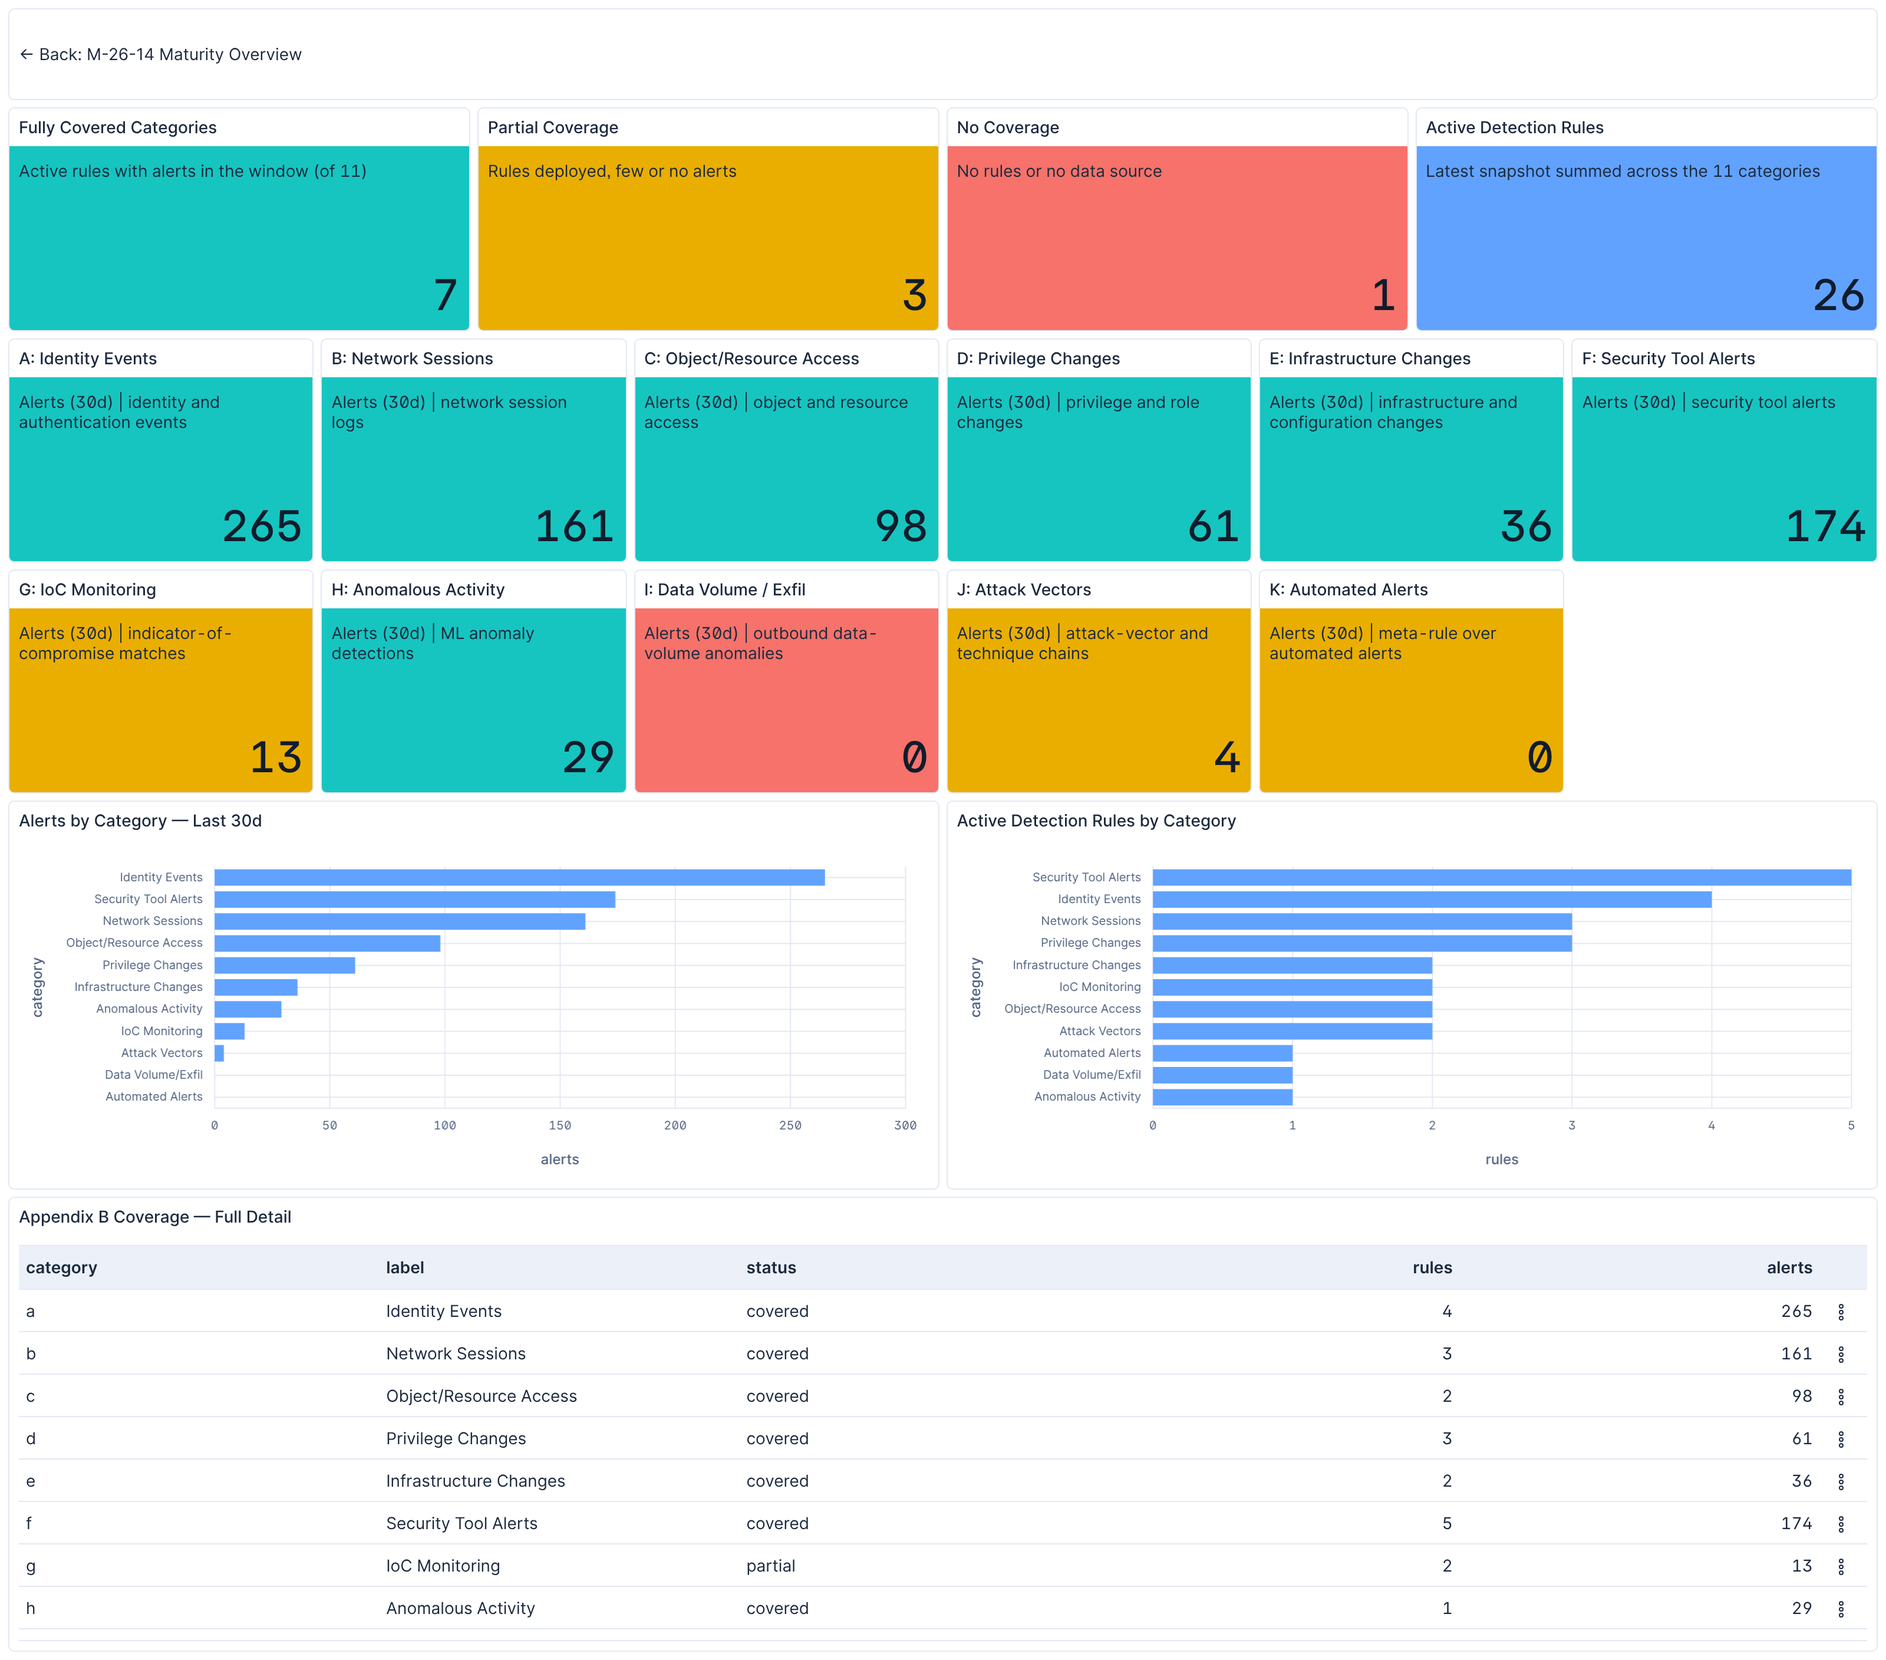
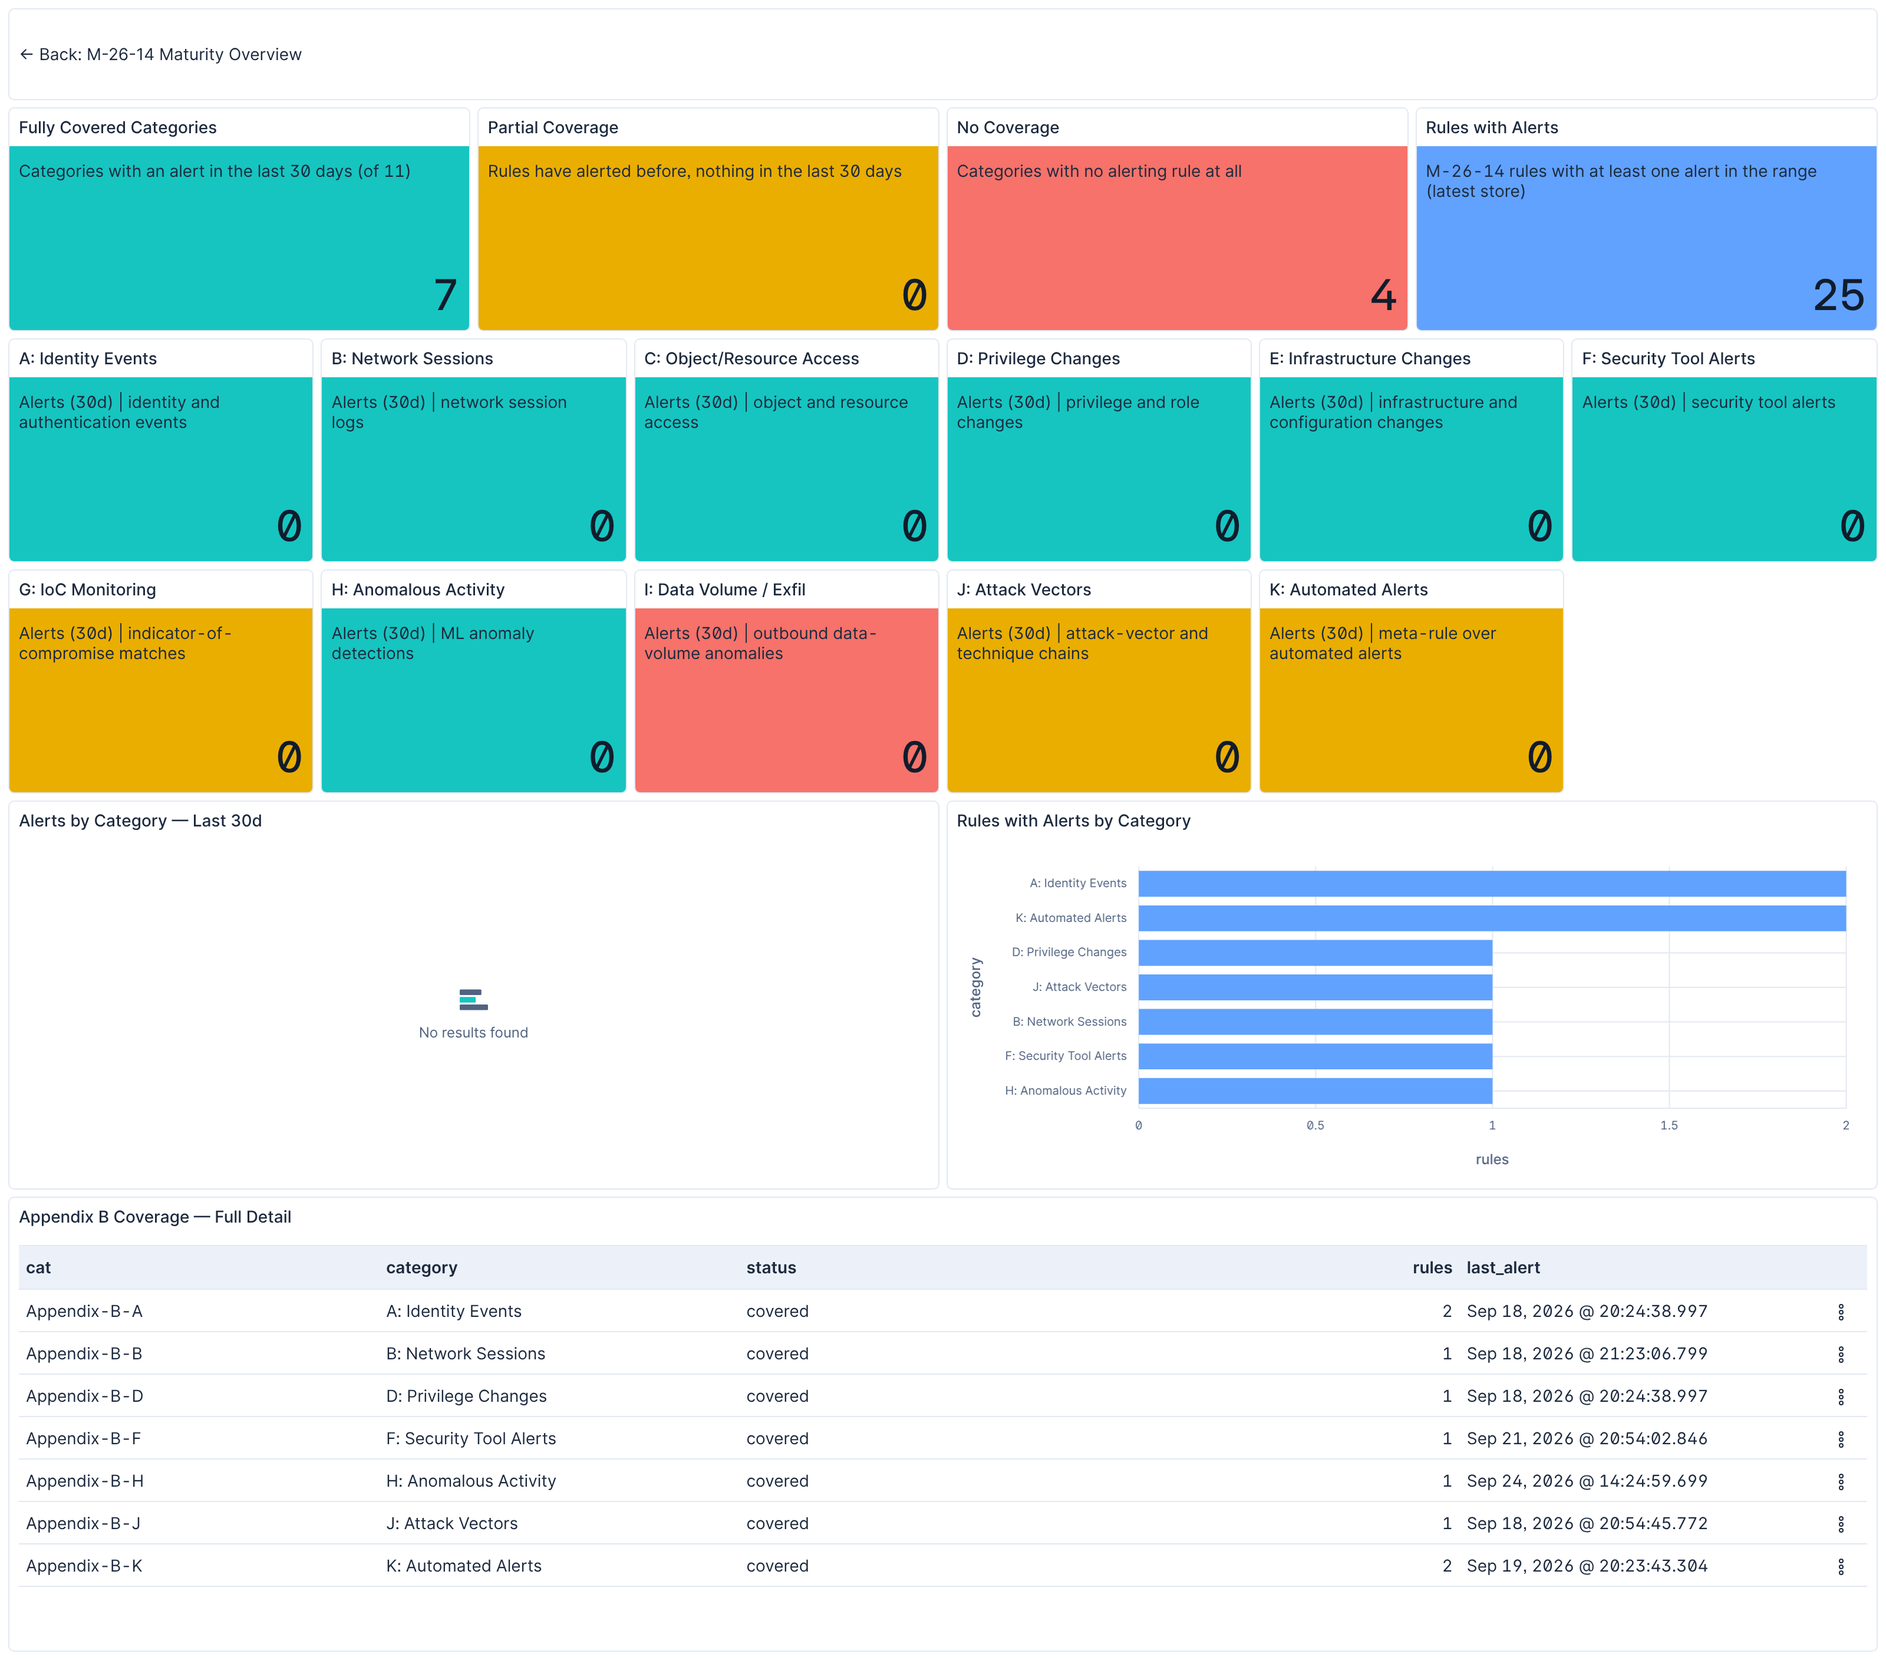
docs(site): HWAM gaps split, Appendix B evidence trail, pre-generated POA&M drafts (R-126..R-128)
Demo guide: section 2 explains the managed/unmanaged software-inventory
split and why the managed table can be empty while the unmanaged tile is
not; section 3 gains "How an auditor validates covered" (three row-click
evidence views on the category tables) and the weekly POA&M draft
workflow; FAQ points at the POA&M Drafts table on the Readiness
Attestation dashboard.

Dashboard guides: Alert Coverage panel 8 and Appendix B full-detail table
rows describe the tag column and the evidence drilldowns.

Enablement framework: Element 3 live links gain the Readiness Attestation
(POA&M drafts) dashboard. Capabilities: ai-audit claims the poam-draft
workflow and poam-drafts store; catalog re-copied from the pack
(regenerated against pubsec after the package upload).

Screenshots re-captured for hwam-gaps, alert-coverage, appendix-b-coverage
and readiness-attestation-dash (plus thumbs).

diff --git a/src/data/capabilities.js b/src/data/capabilities.js
@@ -330,9 +330,10 @@ export const CAPABILITIES = [
       'Three Agent Builder agents answer readiness questions from live data: a POA&M drafting agent that turns open findings (unresolved Cases, retirement gaps, unclassified data, recurring alerts) into formatted Plan of Action and Milestones entries, an After-Action Report agent that reconstructs an incident timeline from logs and Cases, and a threat-investigation agent that produces an audit-ready summary from alerts, entity risk and asset context. Four pack tools give them the same indices the dashboards read.',
       'AI-assisted work carries its own audit trail: every Agent Builder trace span is copied into an audit store with HVA retention on the source stream, rules watch the Kibana audit log for connector changes and knowledge-base edits, and a phrase-match rule flags prompt-injection phrasings in traces.',
     ],
-    contributes: 'The three agents and four tools; the ai-audit transform, index template and normalize pipeline; and the three AI Kibana-audit rules.',
+    contributes: 'The three agents and four tools; the weekly POA&M draft workflow and its drafts store; the ai-audit transform, index template and normalize pipeline; and the three AI Kibana-audit rules.',
     assets: [
       'm_26_14-poam-drafting-agent', 'm_26_14-aar-agent', 'm_26_14-threat-investigation-agent',
+      'm-26-14-poa-m-draft', 'm_26_14-poam-drafts',
       'm_26_14-asset-inventory-search', 'm_26_14-readiness-posture-query', 'm_26_14-classification-audit-query', 'm_26_14-retirement-audit-query',
       'm_26_14-ai-audit', 'm_26_14-ai-audit', 'm_26_14-ai-audit-normalize',
       'm_26_14-ai-assistant-knowledge-base-modified', 'm_26_14-ai-connector-lifecycle', 'm_26_14-ai-guardrail-indicators',

diff --git a/src/data/enablementFramework.js b/src/data/enablementFramework.js
@@ -172,6 +172,7 @@ export const PILLARS = [
         { label: 'Alert Coverage (Appendix B)', url: dash('m_26_14-alert-coverage', 'now-30d') },
         { label: 'Appendix B Coverage Matrix', url: dash('m_26_14-appendix-b-coverage', 'now-30d') },
         { label: 'Agent Builder (POA&M agent)', url: withAnonHint(`${KB}/app/agent_builder/agents`) },
+        { label: 'Readiness Attestation (POA&M drafts)', url: dash('m_26_14-readiness-attestation-dash', 'now-30d') },
       ],
       demo: { title: 'Detection coverage click-through', status: 'planned', url: null },
       docs: [

diff --git a/public/docs/demo-guide.md b/public/docs/demo-guide.md
@@ -53,7 +53,9 @@ Click any row in the Unmanaged Assets table to open a Discover view filtered to 
 
 Knowing devices exist is one requirement. Knowing they're compliant is another. This dashboard answers the posture question: encrypted? MDM-enrolled? Running authorized software?
 
-Four gap tiles line the top row: **No Hardware Inventory (5)**, **No Software Inventory (5)**, **Unknown Encryption Status (5)**, and **No MDM Enrollment (4)** — devices missing a hardware inventory record, a software inventory, a confirmed disk-encryption state, or MDM enrollment. Click any tile to open a Discover view showing exactly which devices — names, OS versions, last-seen times. This is what you hand the ISO instead of a manual audit spreadsheet.
+Five gap tiles line the top row: **No Hardware Inventory (5)**, **Managed, No Software Inventory (0)**, **Unmanaged, No Software Inventory (5)**, **Unknown Encryption Status (5)**, and **No MDM Enrollment (4)** — devices missing a hardware inventory record, a software inventory, a confirmed disk-encryption state, or MDM enrollment. Click any tile to open a Discover view showing exactly which devices — names, OS versions, last-seen times. This is what you hand the ISO instead of a manual audit spreadsheet.
+
+The software-inventory gap is split on `asset.managed` on purpose. The managed tile is the agency's to fix, and the **Managed Assets with No Software Inventory** table at the bottom of the dashboard lists exactly those assets. The unmanaged tile counts unclaimed devices (here the five `UNKNOWN-00x` hosts that the network discovery found but nobody has claimed); those belong to the unknown-device triage runbook, not to a software-inventory push, so they are counted but kept out of the table. On this cluster every uncovered asset is unmanaged, which is why the managed tile and the table both read zero while the unmanaged tile reads five.
 
 > **Where this data comes from:** Encryption status is reported by osquery's `disk_encryption` table query, which runs every few hours on each enrolled endpoint and returns the state of every mounted volume. MDM enrollment status comes separately from the Microsoft Intune integration, which pushes device compliance records directly to Elasticsearch without requiring a query agent on the device. The `m_26_14-asset-entity-resolution` transform merges both sources into a single posture record per device — if osquery can't confirm a device's encryption state and Intune has no record of MDM enrollment, the combined record reflects both gaps simultaneously. Both the Coverage Gaps and the Asset Inventory dashboard draw from the same `m_26_14-assets` index — [you can navigate between them using the links at the top of each dashboard](https://pubsec-m2614-63e0e0.kb.us-east4.gcp.elastic-cloud.com/app/dashboards#/view/m_26_14-hwam-overview).
 
@@ -119,7 +121,9 @@ The coverage matrix is what you bring to the auditor. Each row is an Appendix B 
 
 Green means all three. Yellow means partial. Red means a gap that needs to be addressed before attestation. Use this view to prioritize what to work on next — or to show the auditor what's already covered.
 
-> **How this works:** If you need to document a gap formally, the `m_26_14-poam-drafting-agent` in Elastic Agent Builder can query this coverage data directly using the `m_26_14-readiness-posture-query` tool (one of four pack ES|QL tools, with `m_26_14-asset-inventory-search`, `m_26_14-classification-audit-query` and `m_26_14-retirement-audit-query`) and draft a Plan of Action & Milestones document. It reads the same data as this dashboard — no export needed. The `m_26_14-threat-investigation-agent` can triage specific alerts, and `m_26_14-aar-agent` generates after-action reports from alert history. Every agent conversation is itself logged: the `m_26_14-ai-audit` transform copies each Agent Builder trace into a governed audit store, which is what the LRA asks of AI used inside the logging platform (see section 5).
+**How an auditor validates "covered".** A category is covered when a detection rule tagged `Appendix-B-<letter>` alerted in the last 30 days, and the evidence is one click away. Every row of the category table (here, on the Alert Coverage dashboard and on the Readiness Attestation dashboard) opens three views: **the rules that alerted** (Discover on `m_26_14-metrics-alert-coverage-latest`, one row per rule with its last alert time and severity), **the alerts themselves** (Security → Alerts, filtered on the category tag over the last 30 days, each alert linking to its rule), and **the alert volume per day** (Discover on `m_26_14-metrics-alert-coverage-by-day`). Both stores are written by pack transforms from `.alerts-security.alerts-*`, so the table, the Security app and the transforms are three views of the same alert documents, not three sources.
+
+> **How this works:** If you need to document a gap formally, the `m_26_14-poam-drafting-agent` in Elastic Agent Builder can query this coverage data directly using the `m_26_14-readiness-posture-query` tool (one of four pack ES|QL tools, with `m_26_14-asset-inventory-search`, `m_26_14-classification-audit-query` and `m_26_14-retirement-audit-query`) and draft a Plan of Action & Milestones document. It reads the same data as this dashboard — no export needed. The same agent runs unattended on a weekly schedule through the `m_26_14-poam-draft` workflow, which writes the full markdown draft with its finding counts by risk rating to `m_26_14-poam-drafts`; the **POA&M Drafts** table on the Readiness Attestation dashboard lists every draft, and a row click opens it in Discover, so a pre-generated POA&M is on hand for an auditor without a live agent session. The `m_26_14-threat-investigation-agent` can triage specific alerts, and `m_26_14-aar-agent` generates after-action reports from alert history. Every agent conversation is itself logged: the `m_26_14-ai-audit` transform copies each Agent Builder trace into a governed audit store, which is what the LRA asks of AI used inside the logging platform (see section 5).
 
 ---
 
@@ -241,4 +245,4 @@ It is kept, not dropped. Every pack data stream has its failure store enabled, s
 No — this is a synthetic fleet with realistic composition and posture spread. The pack deploys identically against real Elastic Agent data. The dashboards, rules, pipelines, and ML jobs are environment-agnostic; only the index patterns and configuration change.
 
 **How do I generate a POA&M from the gaps I see here?**
-Open [Agent Builder](https://pubsec-m2614-63e0e0.kb.us-east4.gcp.elastic-cloud.com/app/agent_builder/agents) and start a session with `m_26_14-poam-drafting-agent`. It can query the current compliance posture using ES|QL and draft a Plan of Action & Milestones document for any gap you've identified — no data export needed.
+Open [Agent Builder](https://pubsec-m2614-63e0e0.kb.us-east4.gcp.elastic-cloud.com/app/agent_builder/agents) and start a session with `m_26_14-poam-drafting-agent`. It can query the current compliance posture using ES|QL and draft a Plan of Action & Milestones document for any gap you've identified — no data export needed. For a pre-generated draft, open the **POA&M Drafts** table at the bottom of the [Readiness Attestation](https://pubsec-m2614-63e0e0.kb.us-east4.gcp.elastic-cloud.com/app/dashboards#/view/m_26_14-readiness-attestation-dash?_g=(time:(from:now-30d,to:now))) dashboard: the `m_26_14-poam-draft` workflow runs the same agent weekly (it ships disabled; enable it or run it manually from Workflows) and stores each draft with its finding counts, and a row click opens the markdown in Discover.

diff --git a/public/docs/dashboards/m_26_14-appendix-b-coverage.md b/public/docs/dashboards/m_26_14-appendix-b-coverage.md
@@ -71,7 +71,7 @@ Eleven metric tiles, one per Appendix B category, arranged six across (A–F) an
 
 | Panel | Type | Columns |
 |-------|------|---------|
-| **Appendix B Coverage — Full Detail** | Data table | `category` (a–k, sorted ascending), `label`, `status`, `rules`, `alerts` — one row per category; this is the audit-ready evidence export |
+| **Appendix B Coverage — Full Detail** | Data table | `cat` (the rule tag, `Appendix-B-A` to `-K`, sorted ascending), `category` (label), `status`, `rules` (distinct rules that alerted), `last_alert` — one row per category; this is the audit-ready evidence export. Row click offers three evidence views: the rules that alerted (Discover on the latest store), the alerts in Security → Alerts filtered on the tag over the last 30 days, and the alert volume per day |
 
 ---
 
@@ -115,7 +115,7 @@ Categories A–J each map to one or more dedicated detection rules; Category K i
 2. **Read the KPI row first.** A clean submission shows Fully Covered = 11, Partial = 0, No Coverage = 0. Any non-zero "No Coverage" value blocks submission until remediated or documented.
 3. **Scan the tile grid for non-teal tiles.** Each yellow or orange tile is a finding. The Full Detail table tells you whether the issue is missing rules (`rules` is 0) or rules without evidence (`rules` above 0 with `alerts` at 0).
 4. **Use the two bar charts to distinguish gap types.** A category present in the *Rules* chart but absent from the *Alerts* chart means rules are deployed but silent — verify the data source is flowing before concluding the rule is broken.
-5. **Export the Full Detail table** (panel menu → *Download as CSV*) as the per-category evidence artifact. Its five columns (`category`, `label`, `status`, `rules`, `alerts`) map directly to an Appendix B readiness worksheet.
+5. **Export the Full Detail table** (panel menu → *Download as CSV*) as the per-category evidence artifact. Its five columns (`cat`, `category`, `status`, `rules`, `last_alert`) map directly to an Appendix B readiness worksheet, and a row click reaches the underlying rules, alerts and daily volume when the auditor asks to see the evidence behind a `covered` row.
 6. **Document residual gaps.** Any `partial` or `none` row requires a POA&M entry with a remediation date; attach the exported CSV and a dashboard screenshot to the AO package.
 7. **Return to the Maturity Overview** via the back link to capture the agency-wide maturity score in the same evidence package.
 

diff --git a/public/docs/dashboards/m_26_14-alert-coverage.md b/public/docs/dashboards/m_26_14-alert-coverage.md
@@ -45,7 +45,7 @@ All panels read from the `m_26_14-metrics-alert-coverage` index — pre-aggregat
 | 5 | **Total Alerts (30d)** | Metric (blue) | The latest `m_26_14.alerts_30d` per category (`LAST` by `@timestamp`), summed across the 11 categories — gross detection activity for the trailing 30 days. Value-click lists the per-category figures that make up the sum |
 | 6 | **Alerts Last 30 Days by Appendix B Category** | Horizontal bar chart | `m_26_14.alerts_30d` per `m_26_14.category_label`, sorted descending — where alert volume concentrates |
 | 7 | **Active Detection Rules by Category** | Vertical bar chart | `m_26_14.rules_active` per `m_26_14.category_label`, sorted descending — depth of rule coverage per category |
-| 8 | **Appendix B Category Coverage Status** | Data table | One row per category: label, active rule count, and 30-day alert count, sorted alphabetically — the primary evidence panel |
+| 8 | **Appendix B Category Coverage Status** | Data table | One row per category: the rule tag (`cat`), label, status, distinct rules that alerted, and last alert time, sorted by tag — the primary evidence panel. Row click offers three evidence views: the rules that alerted (Discover on `m_26_14-metrics-alert-coverage-latest`), the alerts in Security → Alerts filtered on the tag over the last 30 days, and the alert volume per day (`m_26_14-metrics-alert-coverage-by-day`) |
 
 All Lens panels use ES|QL against `m_26_14-metrics-alert-coverage`. The store holds one snapshot document per category per day, and `alerts_30d` and `rules_active` are rolling figures as of that day, so every panel takes the latest snapshot per category (`LAST(field, @timestamp)`) rather than a `SUM()` (which would add up 30 copies of a rolling figure) or a `MAX()` (which would show a category's best day rather than its current state).
 
